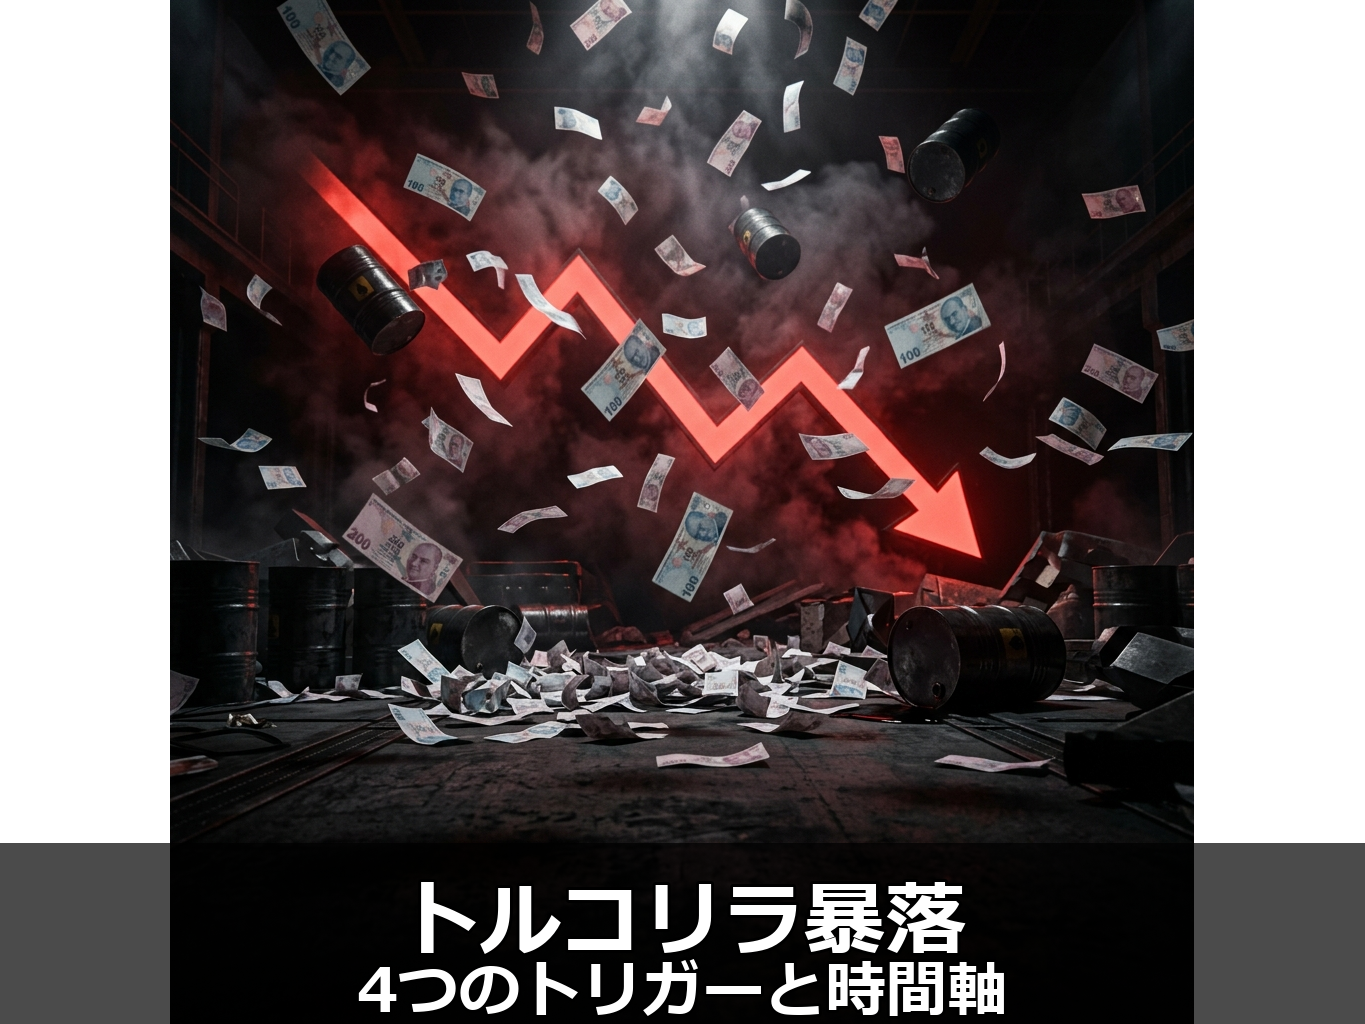
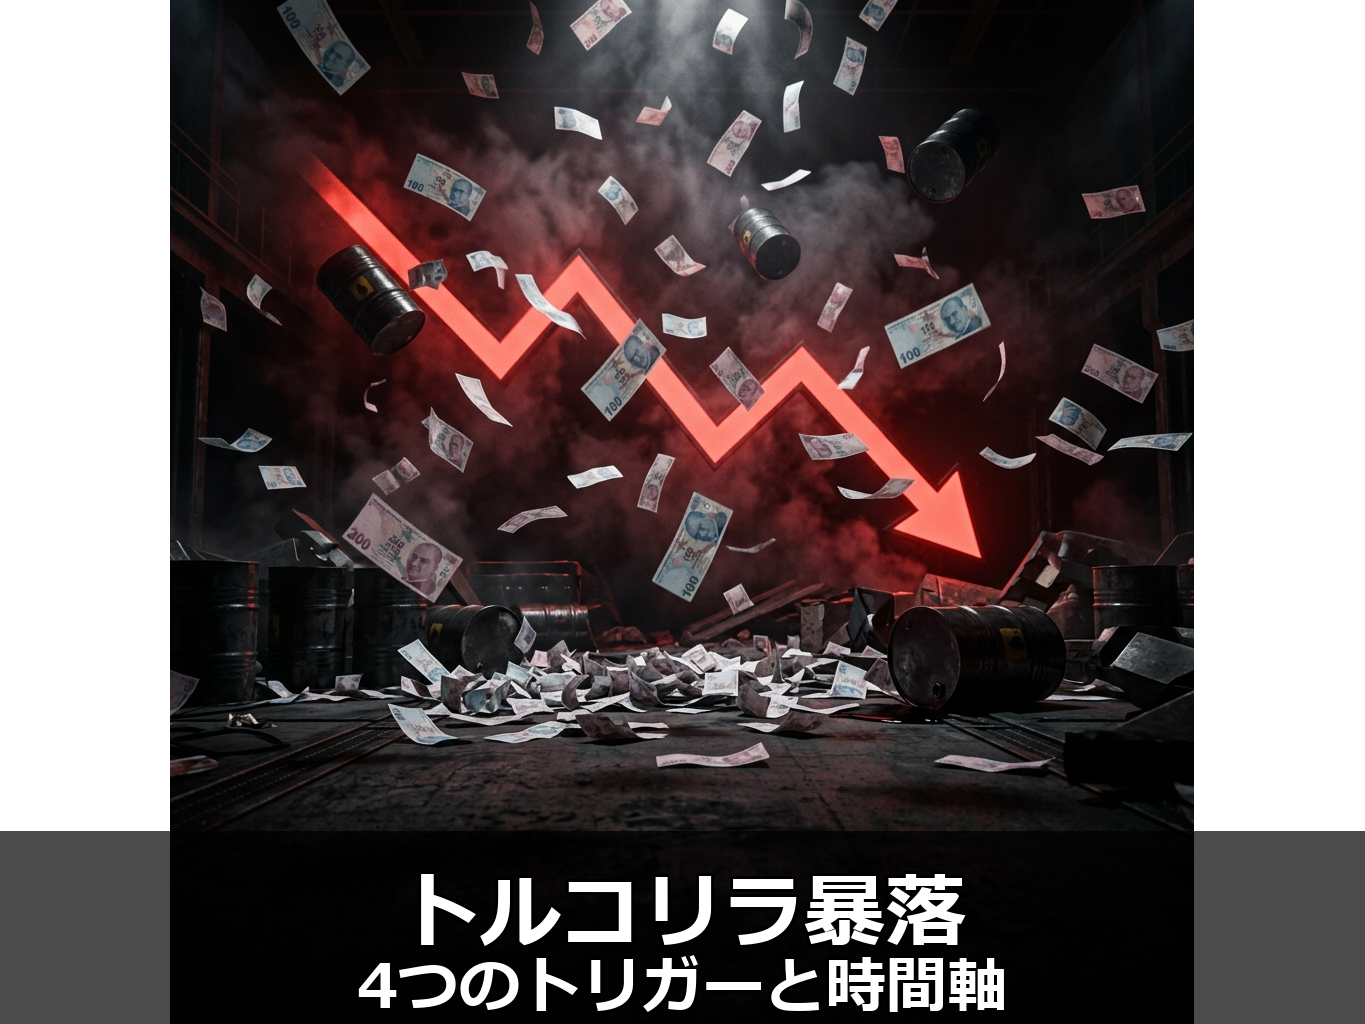
Fix thumbnail layout: restore 1/3 width, fix text overlay alpha compositing

Changed region(s): [[0.2462, 0.8125, 0.7385, 1.0], [0.8615, 0.8125, 1.0, 0.8438], [0.0, 0.8125, 0.1231, 0.8438]]

diff --git a/pages/articles/[id].tsx b/pages/articles/[id].tsx
@@ -78,9 +78,9 @@ export default function ArticlePage({ article }: ArticlePageProps) {
 
       <div className="content-wrapper">
         <article className="article">
-          <div className="article-header-full">
+          <div className="article-top-section">
             {article.thumbnail && (
-              <div className="article-thumbnail-hero">
+              <div className="article-thumbnail-container cover-mode">
                 <img
                   src={`https://www.lira-watch.sbs${article.thumbnail}`}
                   className="meta-thumbnail-image"
@@ -122,21 +122,37 @@ export default function ArticlePage({ article }: ArticlePageProps) {
           border-radius: 12px;
           box-shadow: 0 1px 3px rgba(0, 0, 0, 0.1);
         }
-        .article-header-full {
+        .article-top-section {
+          display: flex;
+          gap: 32px;
+          align-items: flex-start;
           margin-bottom: 32px;
         }
-        .article-thumbnail-hero {
-          width: 100%;
-          margin-bottom: 24px;
-          border-radius: 12px;
+        .article-thumbnail-container {
+          width: 33.33%;
+          aspect-ratio: 4 / 3;
+          background: transparent;
+          display: flex;
+          align-items: center;
+          justify-content: center;
+          border-radius: 8px;
           overflow: hidden;
-          box-shadow: 0 4px 12px rgba(0,0,0,0.1);
+          flex-shrink: 0;
+          position: relative;
+          padding: 4px;
+          box-sizing: border-box;
+        }
+        .article-thumbnail-container.cover-mode {
+          background: transparent;
         }
         .meta-thumbnail-image {
           width: 100%;
-          height: auto;
+          height: 100%;
+          object-fit: contain;
           display: block;
-          object-fit: cover;
+        }
+        .article-thumbnail-container.cover-mode .meta-thumbnail-image {
+          object-fit: contain;
         }
 
         .article-header {

diff --git a/scripts/crop_and_place_thumbnail.py b/scripts/crop_and_place_thumbnail.py
@@ -46,8 +46,8 @@ def process_thumbnail(input_path, output_path, text_lines=None):
 
 def overlay_text(img, text_lines):
     """Overlay text on image with semi-transparent background band (zabuton)."""
-    draw = ImageDraw.Draw(img, "RGBA")
     w, h = img.size
+    img = img.convert("RGBA")
 
     # Font size: 10-15% of image height
     main_font_size = max(48, int(h * 0.08))
@@ -63,30 +63,31 @@ def overlay_text(img, text_lines):
 
     fonts = [main_font] + [sub_font] * (len(text_lines) - 1)
 
-    # Calculate total text height
-    line_spacing = 12
+    # Measure text sizes
+    temp_draw = ImageDraw.Draw(img)
+    line_spacing = 16
     total_height = 0
     line_sizes = []
     for i, line in enumerate(text_lines):
-        bbox = draw.textbbox((0, 0), line, font=fonts[i])
+        bbox = temp_draw.textbbox((0, 0), line, font=fonts[i])
         lw, lh = bbox[2] - bbox[0], bbox[3] - bbox[1]
         line_sizes.append((lw, lh))
         total_height += lh + (line_spacing if i < len(text_lines) - 1 else 0)
 
-    # Draw semi-transparent background band (zabuton) at bottom
-    padding = 20
+    # Draw semi-transparent band on a separate layer
+    padding = 24
     band_top = h - total_height - padding * 2
-    draw.rectangle(
-        [(0, band_top), (w, h)],
-        fill=(0, 0, 0, 180)
-    )
+    overlay = Image.new("RGBA", (w, h), (0, 0, 0, 0))
+    overlay_draw = ImageDraw.Draw(overlay)
+    overlay_draw.rectangle([(0, band_top), (w, h)], fill=(0, 0, 0, 180))
+    img = Image.alpha_composite(img, overlay)
 
-    # Draw text with stroke (outline) for readability
+    # Draw text with stroke on final image
+    draw = ImageDraw.Draw(img)
     y = band_top + padding
     for i, line in enumerate(text_lines):
         lw = line_sizes[i][0]
-        x = (w - lw) // 2  # Center horizontally
-        # Stroke (outline)
+        x = (w - lw) // 2
         draw.text((x, y), line, font=fonts[i], fill=(255, 255, 255, 255),
                   stroke_width=3, stroke_fill=(0, 0, 0, 255))
         y += line_sizes[i][1] + line_spacing
